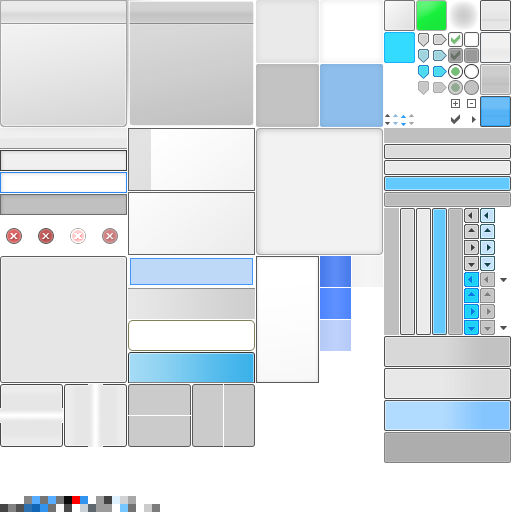
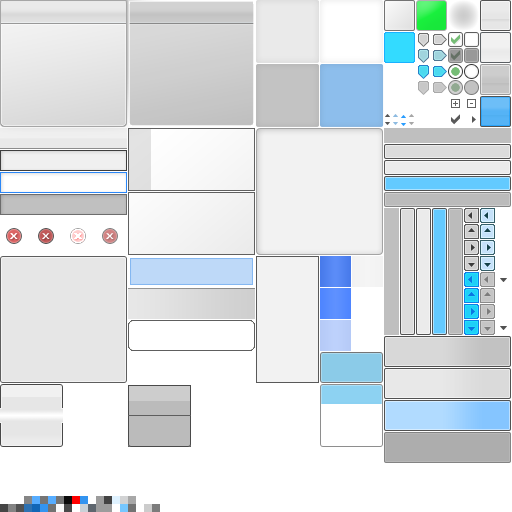
improve testapplication ui

diff --git a/TestApplication/TestContainer.cs b/TestApplication/TestContainer.cs
@@ -11,6 +11,7 @@ namespace TestApplication
         // tree control multi select should only be if holding ctrl, right?
         // window has no font scaling for title
         // on ishidden change, fire mouseup
+        private ControlBase _focus = null;
         public TestContainer(ControlBase parent) : base(parent)
         {
             Dock = Pos.Fill;
@@ -32,41 +33,73 @@ namespace TestApplication
             br.Text = "Right button";
             sb.AddControl(br, true);
         }
+        private void CategorySelected(object sender, ItemSelectedEventArgs e)
+        {
+            if (_focus != e.SelectedItem.UserData)
+            {
+                if (_focus != null)
+                {
+                    _focus.Hide();
+                }
+                _focus = (ControlBase)e.SelectedItem.UserData;
+                _focus.Show();
+            }
+        }
+        private ControlBase AddPage(CollapsibleCategory category, string name)
+        {
+            var btn = category.Add(name);
+            ControlBase panel = new ControlBase(this);
+            panel.Dock = Pos.Fill;
+            panel.Hide();
+            btn.UserData = panel;
+            category.Selected += CategorySelected;
+            return panel;
+        }
         public void Create()
         {
-            TabControl tabcontrol = new TabControl(this);
-            tabcontrol.Dock = Pos.Fill;
+            CollapsibleList list = new CollapsibleList(this);
+            list.Margin = new Margin(0,0,1,0);
+            list.Dock = Pos.Left;
+            list.AutoSizeToContents = true;
+            var cat = list.Add("Basic");
 
-            var page = tabcontrol.AddPage("Labels");
+            var page = AddPage(cat, "Labels");
             var label = new LabelTest(page);
 
-            page = tabcontrol.AddPage("Buttons");
+            page = AddPage(cat, "Buttons");
             var btn = new ButtonTest(page);
 
-            page = tabcontrol.AddPage("Tab Control");
+            page = AddPage(cat, "Layout");
+            var layout = new LayoutTest(page);
+            page = AddPage(cat, "Textbox");
+            var textbox = new TextBoxTest(page);
+            page = AddPage(cat, "Slider");
+            var slider = new SliderTest(page);
+            cat = list.Add("Containers");
+
+            page = AddPage(cat, "Container");
+            var container = new ContainerTest(page);
+
+            page = AddPage(cat, "Tab Control");
             var tab = new TabTest(page);
 
-            page = tabcontrol.AddPage("Layout");
-            var layout = new LayoutTest(page);
-
-            page = tabcontrol.AddPage("TreeControl");
+            page = AddPage(cat, "TreeControl");
             var tree = new TreeTest(page);
 
-            page = tabcontrol.AddPage("Textbox");
-            var textbox = new TextBoxTest(page);
-            page = tabcontrol.AddPage("Window");
+            page = AddPage(cat, "Window");
             var window = new WindowTest(page);
-            page = tabcontrol.AddPage("Container");
-            var container = new ContainerTest(page);
-            page = tabcontrol.AddPage("Menu");
+
+            cat = list.Add("Composite controls");
+
+            page = AddPage(cat, "Menu");
             var menu = new MenuTest(page);
-            page = tabcontrol.AddPage("Property");
+            page = AddPage(cat, "Property");
             var prop = new PropertyTest(page);
-            page = tabcontrol.AddPage("Slider");
-            var slider = new SliderTest(page);
-            page=tabcontrol.AddPage("Category");
-            var cat = new CategoryTest(page);
-            page.FocusTab();
+            page = AddPage(cat, "Category");
+            var collapse = new CategoryTest(page);
+            _focus = page;
+            _focus.Show();
+            //    page.FocusTab();
         }
     }
 }

diff --git a/TestApplication/Tests/ButtonTest.cs b/TestApplication/Tests/ButtonTest.cs
@@ -39,6 +39,15 @@ namespace TestApplication
             btn.Width += 100;
             posy += 50;
             btn.AutoSizeToContents = false;
+            btn = CreateButton("disabled");
+            btn.IsDisabled = true;
+            btn.Width += 50;
+            posy += 50;
+            btn = CreateButton("toggle");
+            btn.IsToggle = true;
+            btn.Toggle();
+            btn.Width += 50;
+            posy += 50;
             btn = CreateButton("left aligned button");
             btn.Width += 50;
             posy += 50;
@@ -46,16 +55,16 @@ namespace TestApplication
             btn.Alignment = Gwen.Pos.Left | Gwen.Pos.CenterV;
             btn = CreateButton("right align button.");
             btn.Width += 50;
-            posy += 50;
+            posy += 30;
             btn.Alignment = Gwen.Pos.Right | Gwen.Pos.CenterV;
             btn.AutoSizeToContents = false;
             Checkbox checkbox = new Checkbox(Parent);
             checkbox.SetPosition(posx, posy);
-            posy += 50;
+            posy += 30;
             Checkbox lcheckbox = new Checkbox(Parent);
             lcheckbox.Text = "checkbox";
             lcheckbox.SetPosition(posx, posy);
-            posy += 50;
+            posy += 30;
             RadioButtonGroup group = new RadioButtonGroup(Parent);
             group.Text = "radio button group";
             group.SetPosition(posx, posy);

diff --git a/TestApplication/Tests/TabTest.cs b/TestApplication/Tests/TabTest.cs
@@ -10,7 +10,6 @@ namespace TestApplication
             TabControl tab = new TabControl(parent);
             tab.Width = 300;
             tab.Height = 200;
-            tab.SetPosition(100, 100);
             var page = tab.AddPage("Layout Test");
             Label l = new Label(page);
             l.Text = "0,0 100x100";
@@ -68,7 +67,8 @@ namespace TestApplication
             {
                 tab.GetPage("Page 3").RemoveTab();
             };
-            page = tab.AddPage("stretch");
+            page = tab.AddPage("disabled");
+            page.TabButton.IsDisabled = true;
             page = tab.AddPage("stretch");
             page = tab.AddPage("stretch");
         }

diff --git a/TestApplication/Window.cs b/TestApplication/Window.cs
@@ -45,9 +45,9 @@ namespace TestApplication
                 fontpng);
 
             var skin = new Gwen.Skin.TexturedBase(renderer,
-                skinpng,
-                colorxml)
+                skinpng)
             { DefaultFont = gamefont_15 };
+            // var skin = new Gwen.Skin.Simple(renderer) { DefaultFont = gamefont_15 };
             Canvas = new Canvas(skin);
             Canvas.SetSize(ClientSize.Width, ClientSize.Height);
             input.Initialize(Canvas);

diff --git a/TestApplication/Tests/CategoryTest.cs b/TestApplication/Tests/CategoryTest.cs
@@ -16,7 +16,8 @@ namespace TestApplication
             list.Height = 200;
             var l = list.Add("Hell0 i am cat");
             l.Add("i have cats");
-            l.Add("meaow");l = list.Add("Hi. I'm a kitten");
+            l.Add("meaow");
+            l = list.Add("Hi. I'm a kitten");
             l.Add("I am proffesional.");
             l.Add("Mow.");
         }
